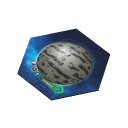
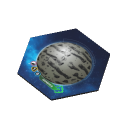
fix garbozia tile scale

diff --git a/src/garbozia/garbozia-inject.js b/src/garbozia/garbozia-inject.js
@@ -1,4 +1,4 @@
-const { world, refPackageId } = require("@tabletop-playground/api");
+const { world, refObject, refPackageId } = require("@tabletop-playground/api");
 
 const localeStrings = {
   "planet.garbozia": "Garbozia",
@@ -37,3 +37,8 @@ world.TI4.homebrew.inject({
 });
 
 world.TI4.homebrew.resetOnTableDecks();
+
+if (world.TI4.ObjectNamespace.isSystemTile(refObject)) {
+  const scale = world.TI4.Hex.SCALE * 0.995;
+  refObject.setScale([scale, scale, scale]);
+}
